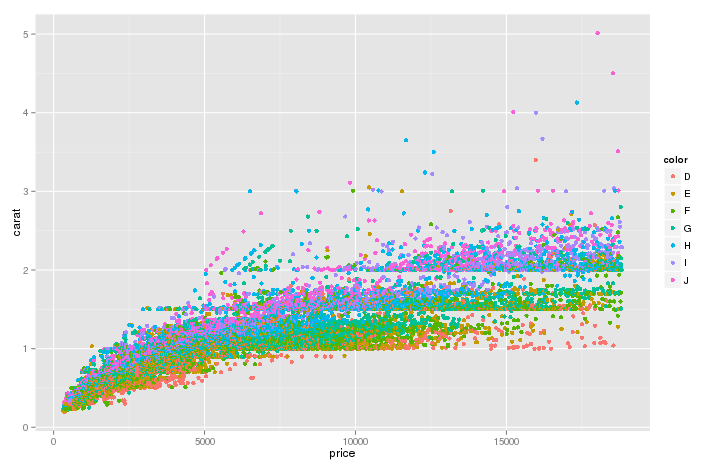
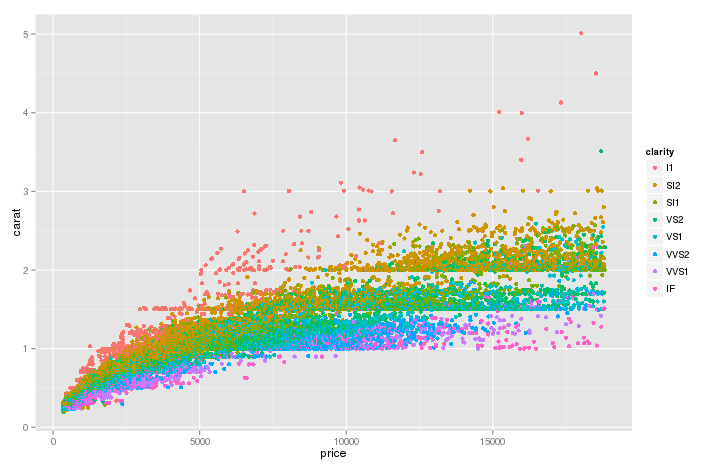
publishing deck

diff --git a/index.html b/index.html
@@ -128,7 +128,7 @@
     <h3>ggplot2: <code>qplot()</code></h3>
   </hgroup>
   <article data-timings="">
-    <pre><code class="r">qplot(x=price, y=carat, colour=color, data=diamonds, geom=(&quot;point&quot;))
+    <pre><code class="r">qplot(x=price, y=carat, colour=clarity, data=diamonds, geom=(&quot;point&quot;))
 </code></pre>
 
 <p><img src="assets/fig/unnamed-chunk-2.png" alt="plot of chunk unnamed-chunk-2"> </p>
@@ -142,7 +142,7 @@
     <h3>ggplot2: <code>ggplot()</code></h3>
   </hgroup>
   <article data-timings="">
-    <pre><code class="r">ggplot(data=diamonds) + geom_point(aes(x=price, y=carat, colour=color))
+    <pre><code class="r">ggplot(data=diamonds) + geom_point(aes(x=price, y=carat, colour=clarity))
 </code></pre>
 
 <p><img src="assets/fig/unnamed-chunk-3.png" alt="plot of chunk unnamed-chunk-3"> </p>

diff --git a/index.md b/index.md
@@ -62,7 +62,7 @@ ext_widgets : {rCharts: [libraries/highcharts, libraries/nvd3]}
 
 
 ```r
-qplot(x=price, y=carat, colour=color, data=diamonds, geom=("point"))
+qplot(x=price, y=carat, colour=clarity, data=diamonds, geom=("point"))
 ```
 
 ![plot of chunk unnamed-chunk-2](assets/fig/unnamed-chunk-2.png) 
@@ -73,7 +73,7 @@ qplot(x=price, y=carat, colour=color, data=diamonds, geom=("point"))
 
 
 ```r
-ggplot(data=diamonds) + geom_point(aes(x=price, y=carat, colour=color))
+ggplot(data=diamonds) + geom_point(aes(x=price, y=carat, colour=clarity))
 ```
 
 ![plot of chunk unnamed-chunk-3](assets/fig/unnamed-chunk-3.png) 
